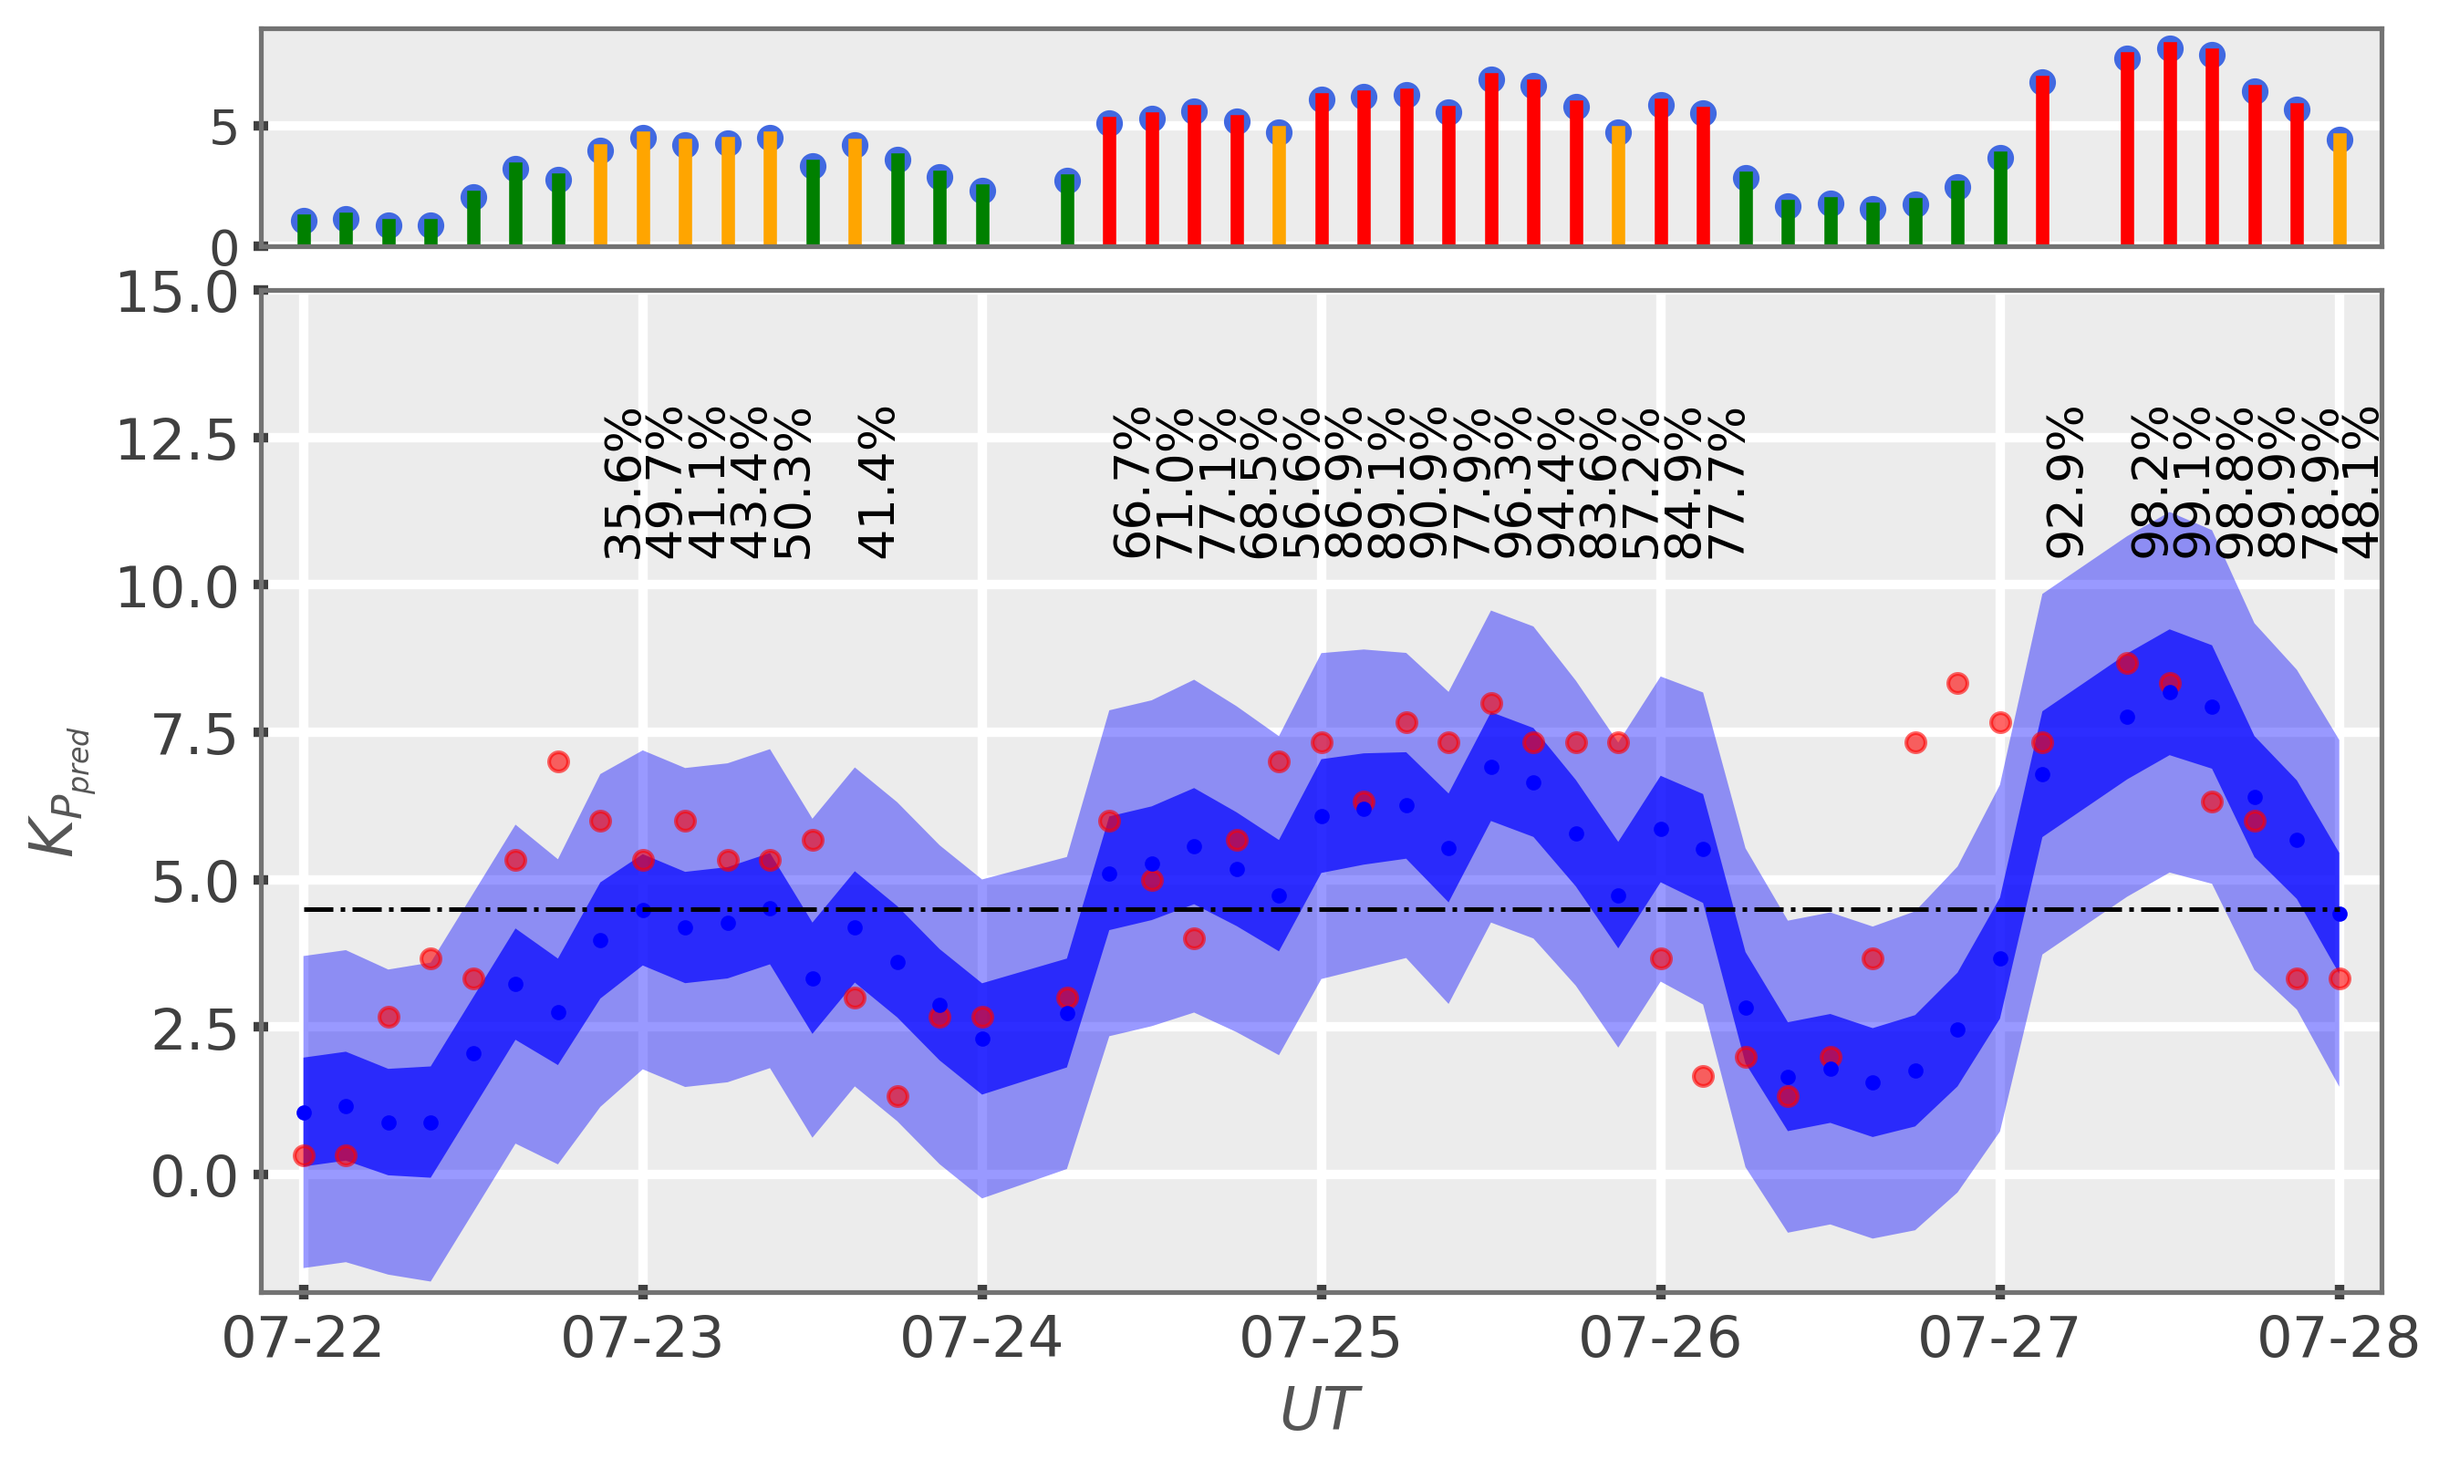
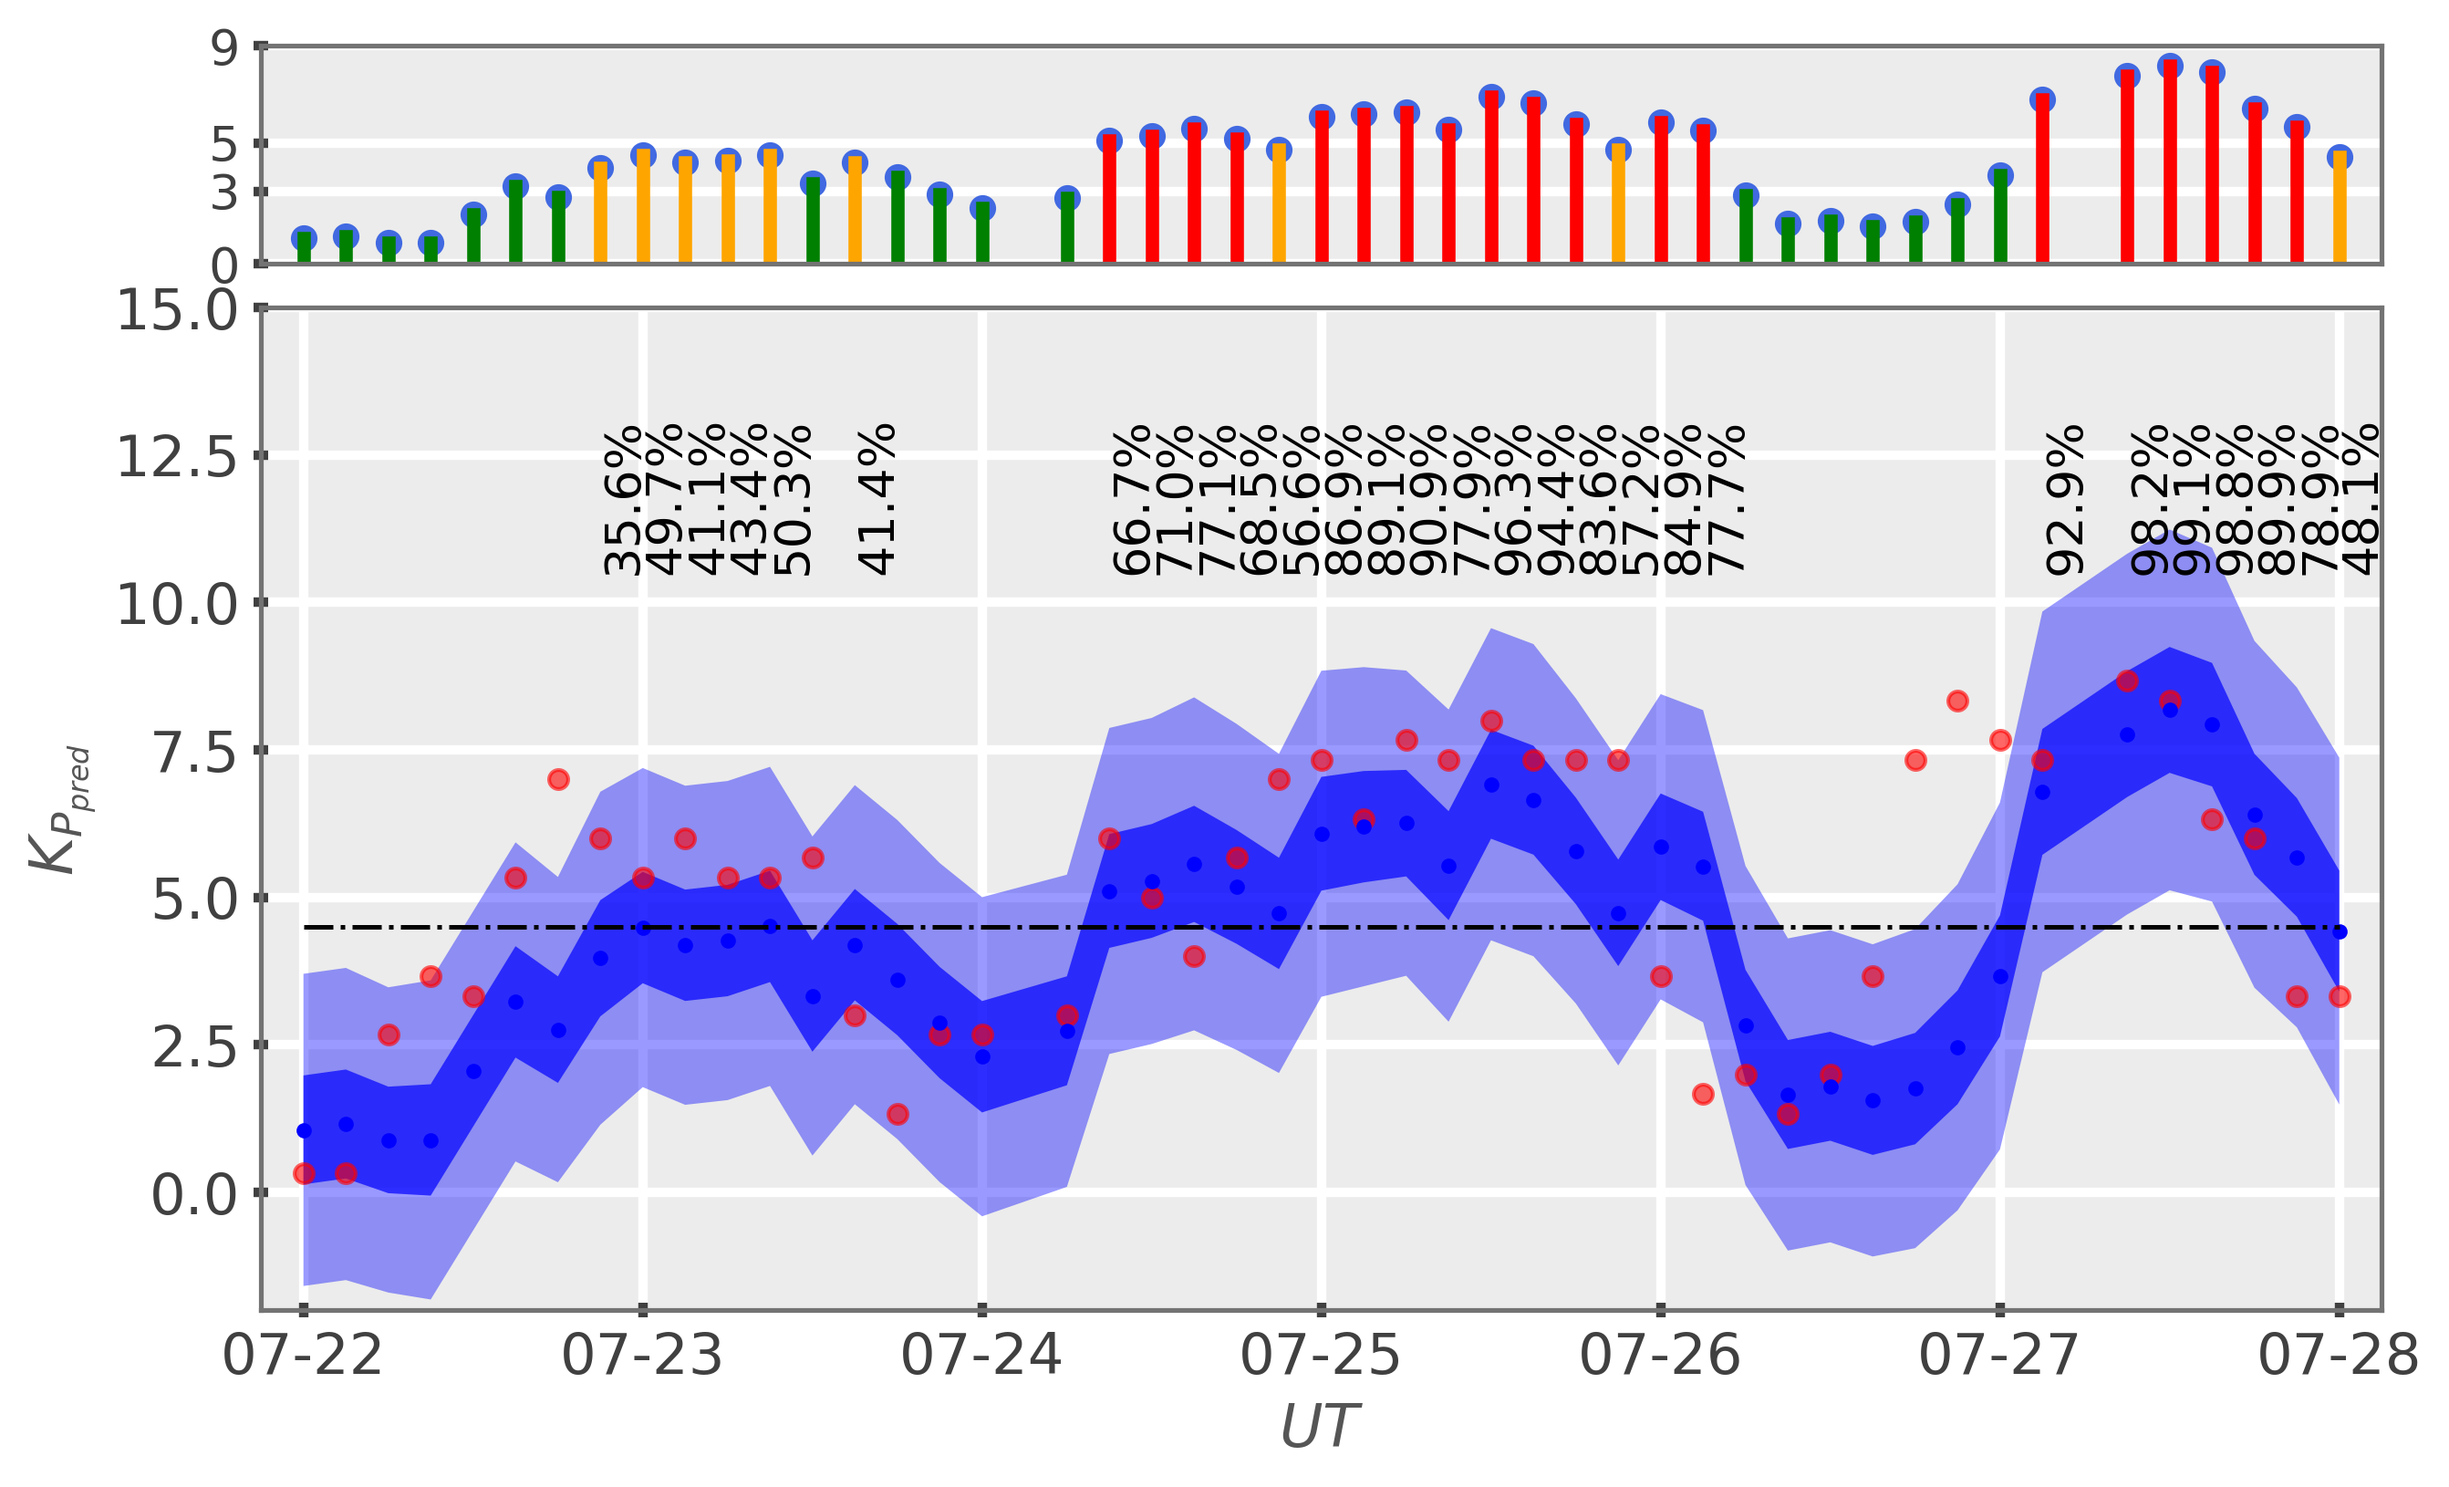
ft

diff --git a/util.py b/util.py
@@ -396,6 +396,7 @@ def proba_storm_forcast(model,trw):
     #fig, ax = plt.subplots(nrows=1,ncols=1,figsize=(10,6))
     ax0 = fig.add_subplot(spec[0:2, 0])
     ax0.set_ylim(0,9)
+    ax0.set_yticks([0,3,5,9])
     ax0.set_xticks([])
     ax0.set_xticklabels([])
     ax0.set_xlim(dt.datetime(2004,7,21,21), dt.datetime(2004,7,28,3))
